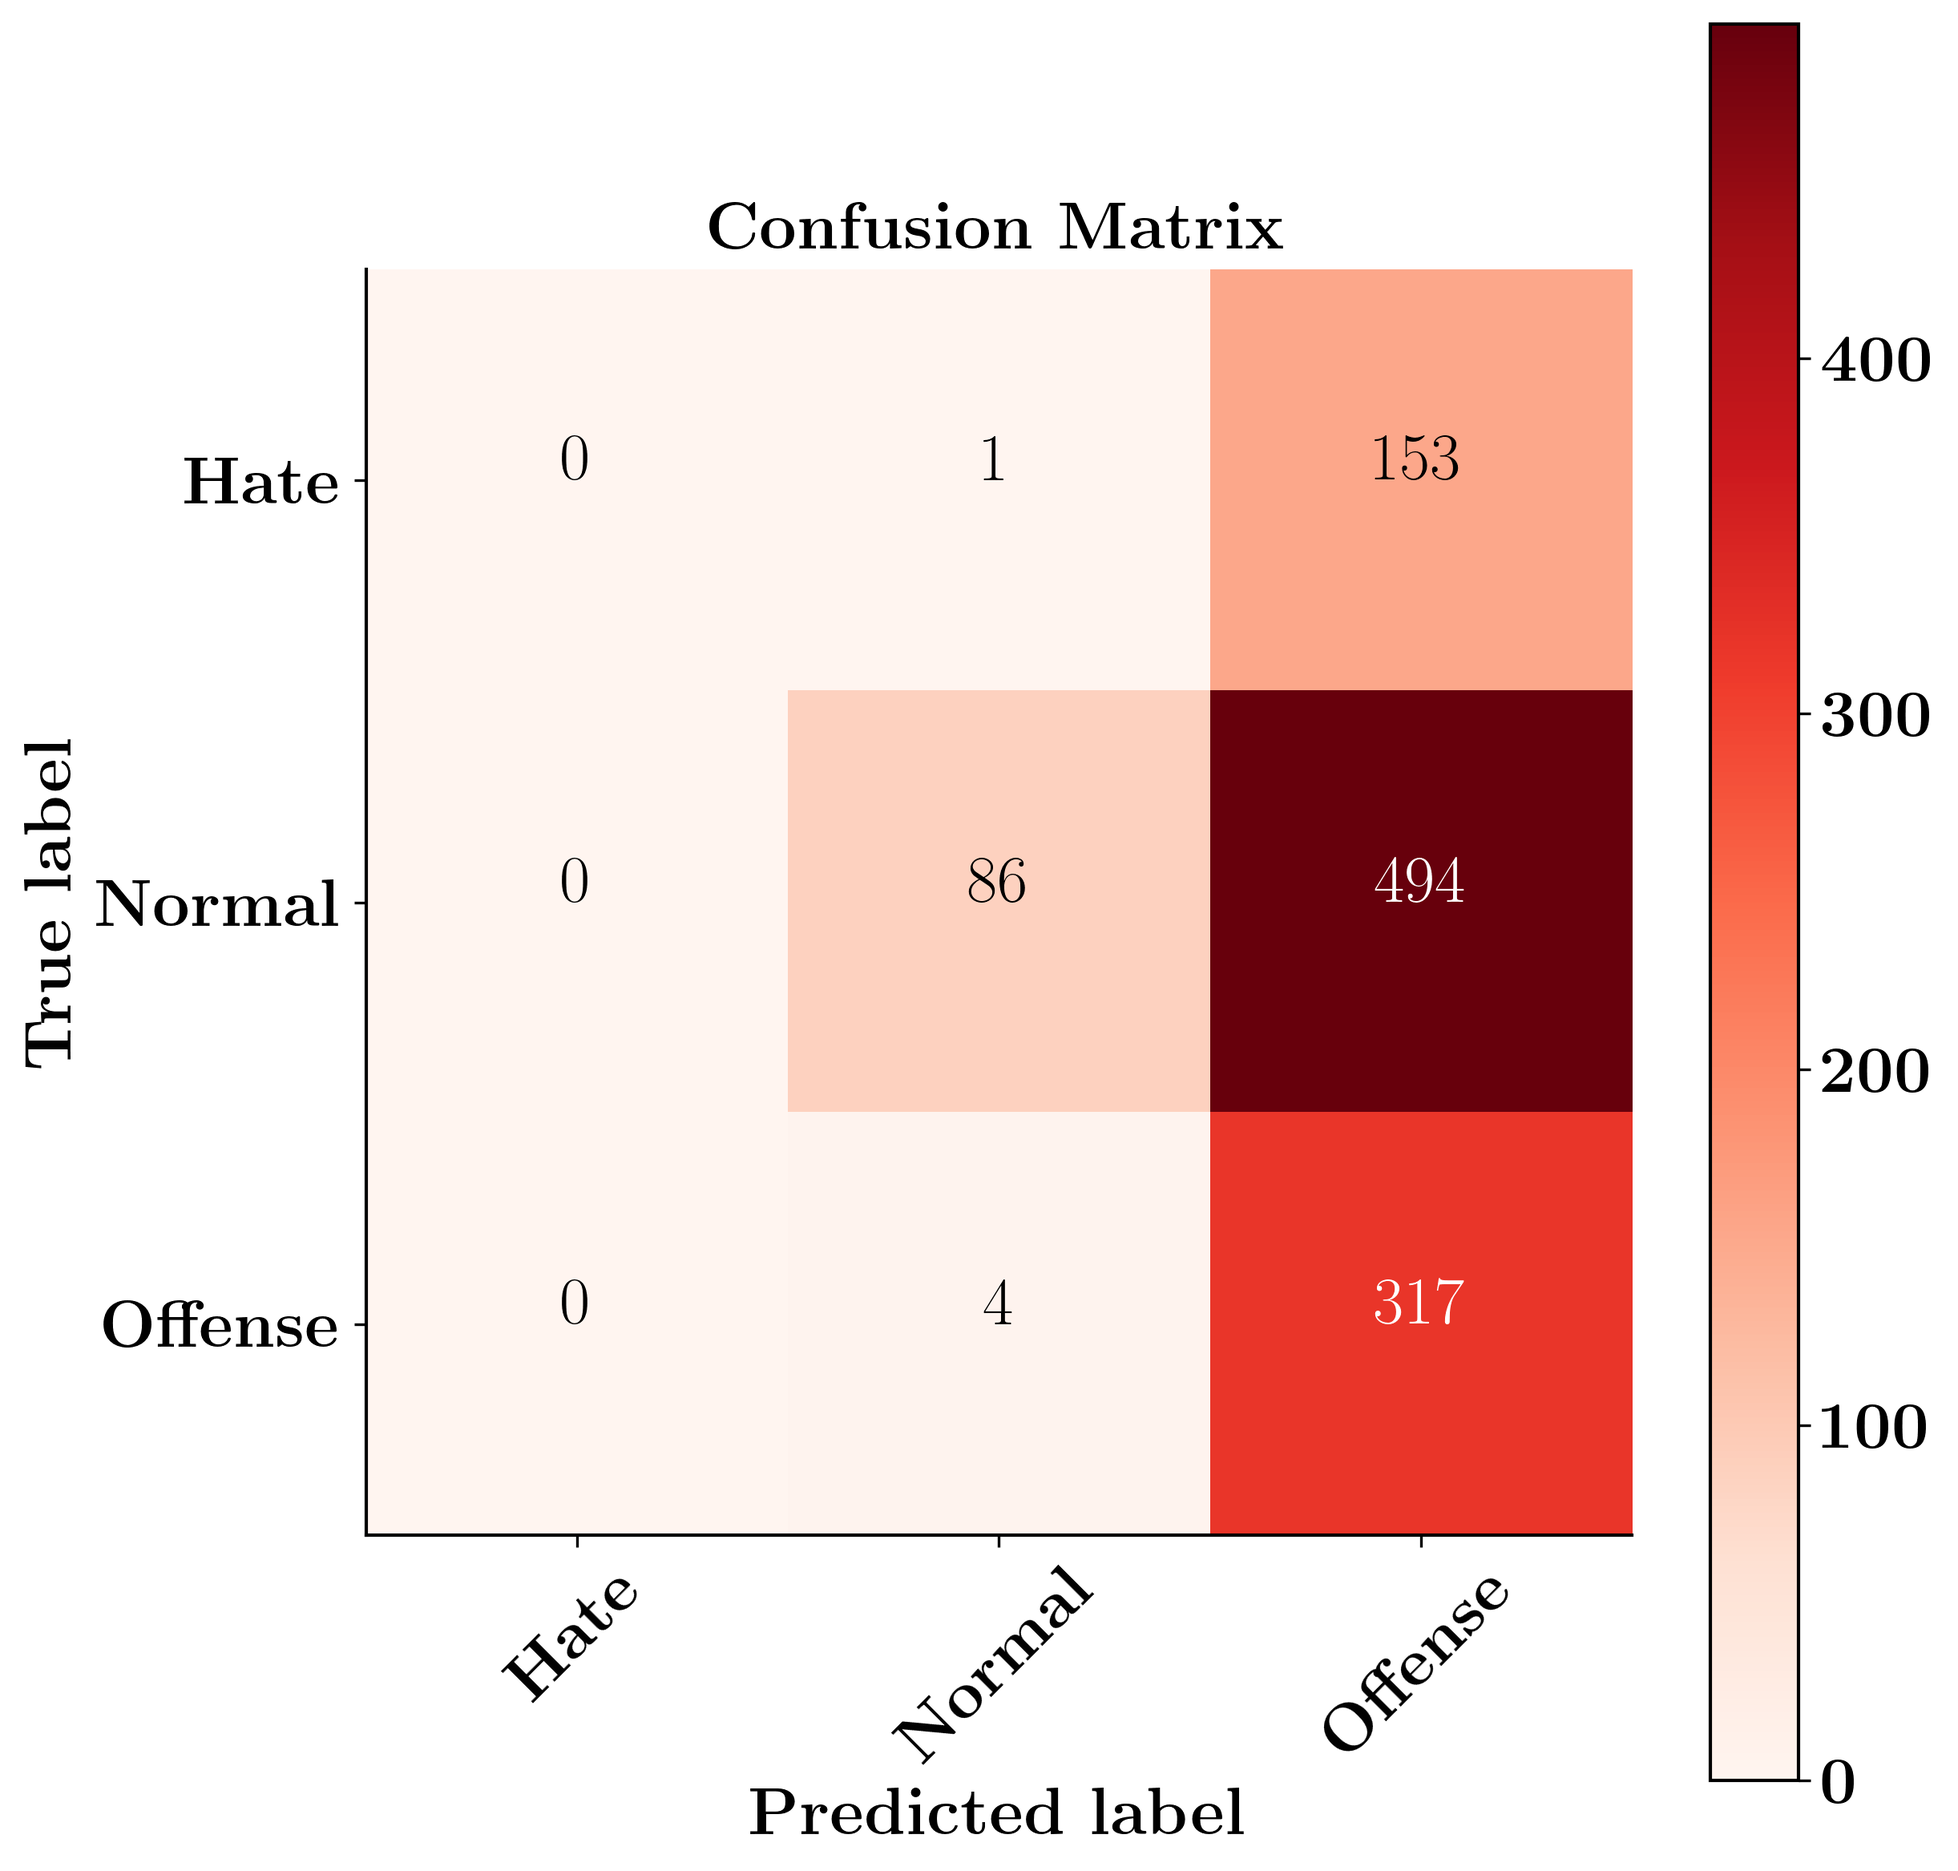
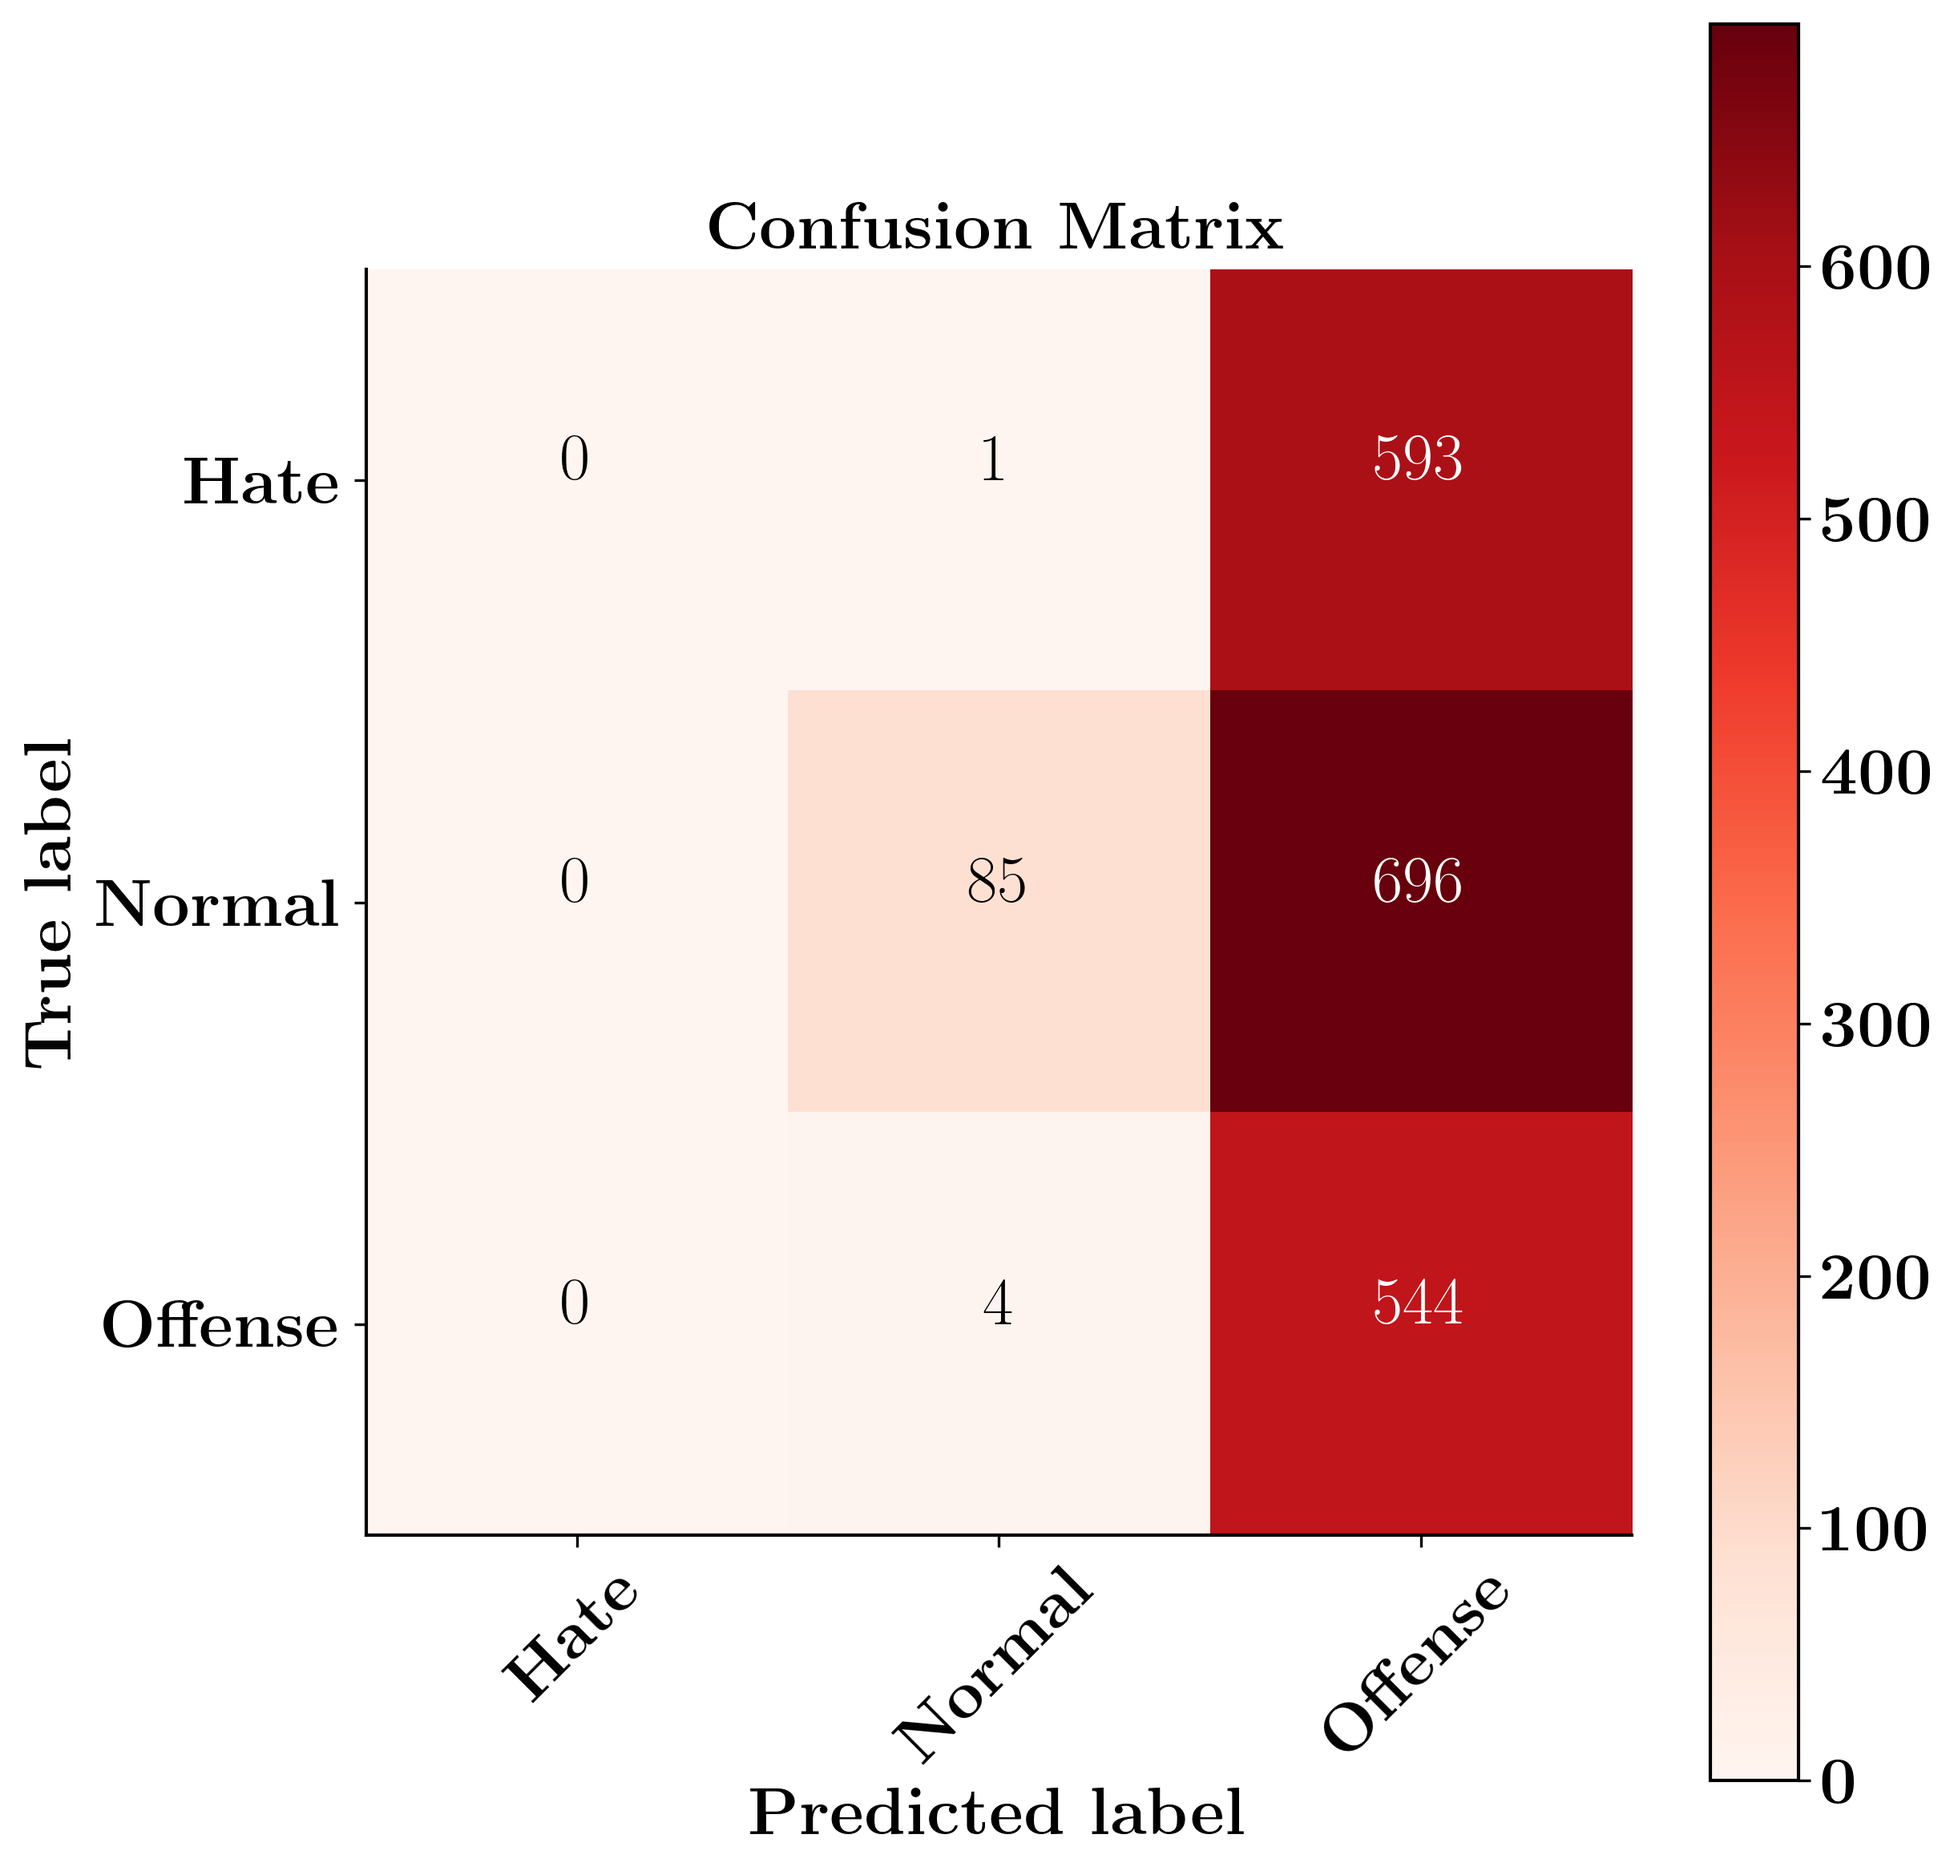
kat kat

diff --git a/Papers_Project/Project/llama/cm_xlnet.py b/Papers_Project/Project/llama/cm_xlnet.py
@@ -1,0 +1,123 @@
+import numpy as np
+import matplotlib.pyplot as plt
+from sklearn.metrics import confusion_matrix
+from sklearn.metrics import accuracy_score, precision_score, recall_score, f1_score
+
+import matplotlib
+
+# plt.style.use("dark_background")
+
+# print(plt.rcParams.keys())
+matplotlib.rcParams['text.usetex'] = True
+matplotlib.rcParams['axes.spines.right'] = False
+matplotlib.rcParams['axes.spines.top'] = False
+
+plt.rc('font', family='serif')
+plt.rc('xtick', labelsize=20)
+plt.rc('ytick', labelsize=20)
+matplotlib.rc('text', usetex=True)
+matplotlib.rcParams['text.latex.preamble']=r"\usepackage{amsmath,amsfonts,bbm}"
+plt.rc('axes', linewidth=1)
+plt.rc('font', weight='bold')
+matplotlib.rcParams['text.latex.preamble'] = r'\boldmath'
+
+
+
+
+######### Code to calculate metrics and stuffs #########
+def get_metrics(ALL_LABELS, ALL_PREDS, FileName):
+
+    # Calculate accuracy
+    accuracy = accuracy_score(ALL_LABELS, ALL_PREDS)
+
+    # Calculate precision
+    precision = precision_score(ALL_LABELS, ALL_PREDS, average='macro')
+
+    # Calculate recall
+    recall = recall_score(ALL_LABELS, ALL_PREDS, average='macro')
+
+    # Calculate F1-score
+    f1 = f1_score(ALL_LABELS, ALL_PREDS, average='macro')
+
+    accuracy = float(accuracy)*100
+    precision = float(precision)*100
+    recall = float(recall)*100
+    f1 = float(f1)
+
+    print("Accuracy:", accuracy)
+    print("Precision:", precision)
+    print("Recall:", recall)
+    print("F1-score:", f1)
+
+    with open("Metrics_{}.txt".format(FileName), 'a') as f:
+        # Text, Original GT, Predicted Label
+        f.write("Accuracy: "+str(accuracy)+" \n")
+        f.write("Precision: "+str(precision)+" \n")
+        f.write("Recall: "+str(recall)+" \n")
+        f.write("F1-score: "+str(f1)+" \n")
+        f.close() 
+
+
+
+
+######### Code to draw the confusion metrics and stuffs #########
+def draw_cm(ALL_LABELS, ALL_PREDS, labels, FileName):
+    # Compute confusion matrix
+    cm = confusion_matrix(ALL_LABELS, ALL_PREDS)
+
+    # Define class labels
+    # 0 for hate, 1 for normal, and 2 for offense.
+
+    
+
+    # Plot confusion matrix
+    plt.figure(figsize=(8, 8))
+    plt.imshow(cm, interpolation='nearest', cmap=plt.cm.Reds)
+    plt.title(r'\bf{Confusion Matrix}', fontsize=20)
+    plt.colorbar()
+    tick_marks = np.arange(len(classes))
+    plt.xticks(tick_marks, classes, rotation=45)
+    plt.yticks(tick_marks, classes)
+
+    # Add text annotations
+    thresh = cm.max() / 2.
+    for i in range(cm.shape[0]):
+        for j in range(cm.shape[1]):
+            plt.text(j, i, format(cm[i, j], 'd'),
+                    horizontalalignment="center",
+                    color="white" if cm[i, j] > thresh else "black",
+                    fontsize=20, fontweight=200)
+
+    plt.tight_layout()
+    plt.ylabel(r'\bf{True label}', fontsize=20)
+    plt.xlabel(r'\bf{Predicted label}', fontsize=20)
+
+    # Save the plot
+    plt.savefig('cm_{}.png'.format(FileName), bbox_inches='tight', pad_inches=0.1, dpi=300)
+
+    # Show plot
+    plt.show()
+
+
+############ using one_shot_7b_filename
+
+ALL_TEXTS = []
+ALL_LABELS = []
+ALL_PREDS = []
+
+data_array = np.load('xlnet_results.npy', allow_pickle=True)
+
+print(data_array)
+
+for pred_val in data_array['pred']:
+    # print(pred_val)
+    ALL_PREDS.append(pred_val)
+
+for gt_val in data_array['gt']:
+    # print(gt_val)
+    ALL_LABELS.append(gt_val)  
+
+
+classes = [r'\bf{Hate}', r'\bf{Normal}', r'\bf{Offense}']
+draw_cm(ALL_LABELS, ALL_PREDS, classes, FileName='xlnet_saikat')
+get_metrics(ALL_LABELS, ALL_PREDS, FileName='xlnet_saikat')

diff --git a/Papers_Project/Project/llama/get_dataset_results.py b/Papers_Project/Project/llama/get_dataset_results.py
@@ -128,9 +128,11 @@ def read_file(filename, ALL_TEXTS, ALL_LABELS, ALL_PREDS):
                         print("Prediction == ",pred)
                     
                     if 'I' in str(text_only_pred_first_split):
-                        err_pred += 1
-                        print("Error Prediction == ",text_only_pred_first_split)
-                        continue 
+                        pred = 2
+                        print("Prediction == ",pred)
+                        # err_pred += 1
+                        # print("Error Prediction == ",text_only_pred_first_split)
+                        # continue 
 
 
                     text_only_first_split = str(line).split("Text = ")[1]
@@ -146,6 +148,9 @@ def read_file(filename, ALL_TEXTS, ALL_LABELS, ALL_PREDS):
                     # if len(pred) > 1:
                     #     print("??????? ", pred)
                     #     dummy_check = 0
+                    if text_only_sec_split in ALL_TEXTS:
+                        print("Already present.")
+                        continue
                     ALL_TEXTS.append(str(text_only_sec_split))
                     ALL_PREDS.append(pred)
                     ALL_LABELS.append(int(text_only_label_sec_split))
